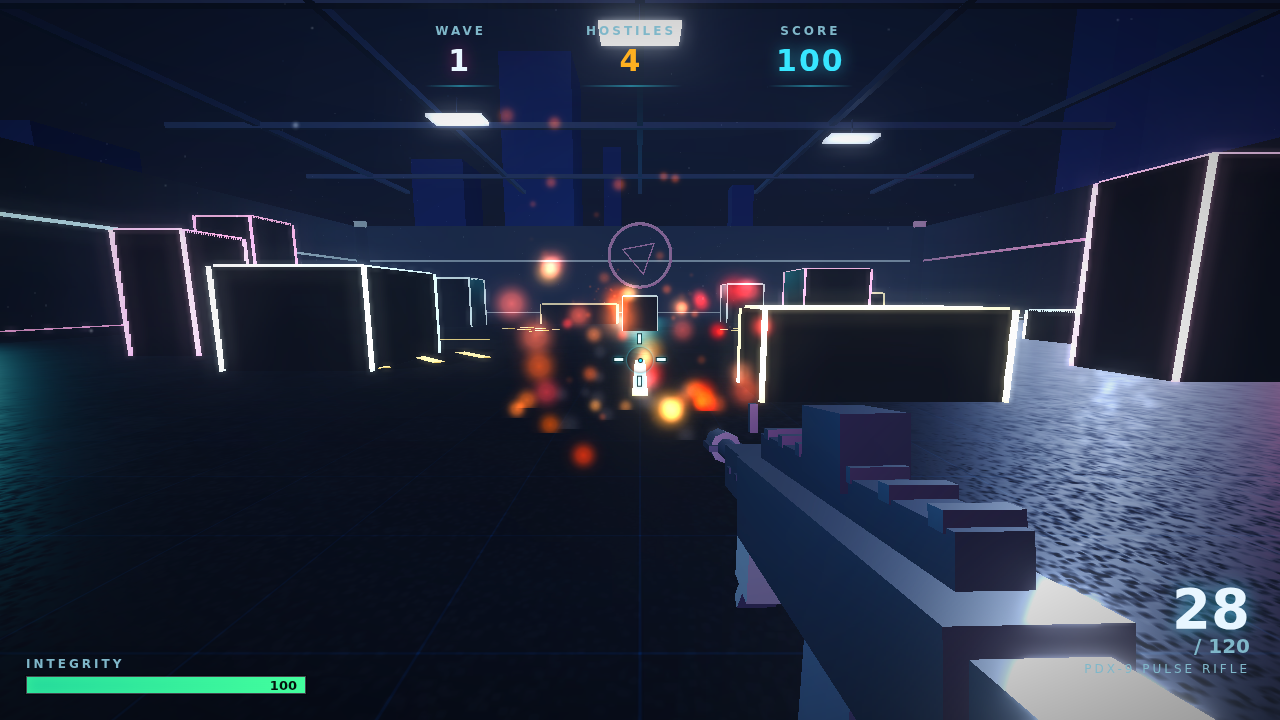
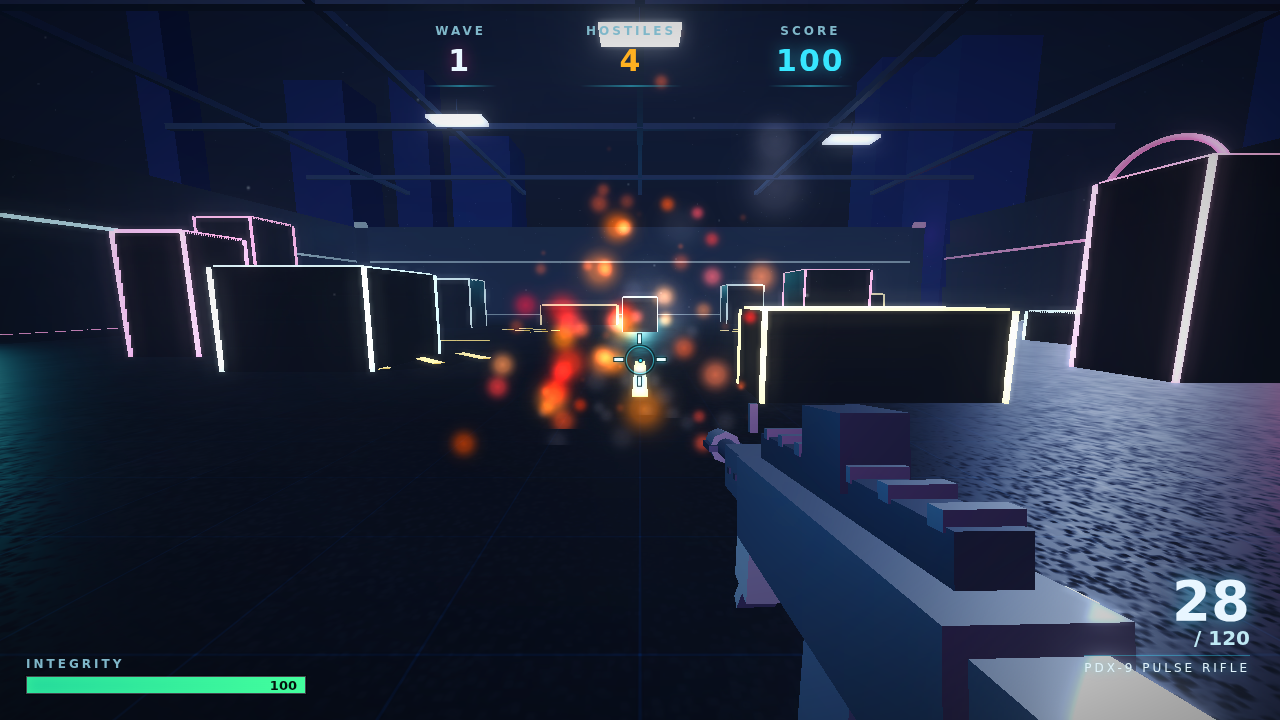
Gauntlet Loop Round 2: fresh blind critics on the improved build
Three new blind critics scored the Round 1 result higher across the board and
found subtler gaps, including that Round 1 over-corrected the enemies.

- Combat feel: enemies no longer blow out to white "gems" — dimmer core +
  tiny pupil, thin outline rim, rebalanced global bloom (0.82->0.66), and
  per-type SILHOUETTES (brute shoulder plates, spitter gland head, drone
  lean hunch) so the three archetypes differ by shape, not just hue.
- Fire feedback: controlled multi-frame muzzle flash + smoke puff, brighter
  longer tracer, a camera recoil punch, hot-white spark shards on impact.
- Art: shared bump/detail map + tiled texture on walls & cover (real surface
  relief), brighter blooming light panels, floor-hugging neon trim, moved the
  far-wall sigil off-center so it stops competing with the reticle.
- HUD/presentation: higher-contrast crosshair, legible weapon name, a proper
  bordered/glowing/breathing menu CTA, confirmed HUD hidden until in-game.

Round log + before/after in docs/LOOP_LOG.md.

Claude-Session: https://claude.ai/code/session_017e5kp2HPuTir5hF2mprB4u

diff --git a/game.js b/game.js
@@ -137,7 +137,7 @@
   // Post: bloom for that neon AAA glow
   const composer = new THREE.EffectComposer(renderer);
   composer.addPass(new THREE.RenderPass(scene, camera));
-  const bloom = new THREE.UnrealBloomPass(new THREE.Vector2(window.innerWidth, window.innerHeight), 0.82, 0.62, 0.62);
+  const bloom = new THREE.UnrealBloomPass(new THREE.Vector2(window.innerWidth, window.innerHeight), 0.66, 0.6, 0.66);
   composer.addPass(bloom);
 
   // Finishing grade: radial vignette + cool shadow tint + gentle saturation lift.
@@ -219,7 +219,19 @@
     x.fillStyle = g; x.fillRect(0, 0, s, s);
     return new THREE.CanvasTexture(c);
   }
-  const TEX = { floor: floorTexture(), floorRough: floorRough(), wall: wallTexture(), dot: softDot() };
+  function detailBump() {
+    const s = 256, c = makeCanvas(s), x = c.getContext('2d');
+    x.fillStyle = '#808080'; x.fillRect(0, 0, s, s);
+    x.strokeStyle = '#3a3a3a'; x.lineWidth = 3;
+    for (let i = 0; i <= s; i += 64) { x.beginPath(); x.moveTo(i, 0); x.lineTo(i, s); x.stroke(); x.beginPath(); x.moveTo(0, i); x.lineTo(s, i); x.stroke(); }
+    x.strokeStyle = '#b4b4b4'; x.lineWidth = 1;
+    for (let i = 32; i <= s; i += 64) { x.beginPath(); x.moveTo(i, 0); x.lineTo(i, s); x.stroke(); }
+    x.fillStyle = '#d4d4d4';
+    for (let i = 10; i < s; i += 64) for (let j = 10; j < s; j += 64) { x.beginPath(); x.arc(i, j, 2.5, 0, TAU); x.fill(); }
+    for (let i = 0; i < 3200; i++) { const v = 88 + Math.floor(Math.random() * 92); x.fillStyle = `rgb(${v},${v},${v})`; x.fillRect(Math.random() * s, Math.random() * s, 1, 1); }
+    const t = new THREE.CanvasTexture(c); t.wrapS = t.wrapT = THREE.RepeatWrapping; t.repeat.set(3, 3); return t;
+  }
+  const TEX = { floor: floorTexture(), floorRough: floorRough(), wall: wallTexture(), dot: softDot(), bump: detailBump() };
 
   /* =========================================================================
      WORLD
@@ -235,8 +247,9 @@
     const floor = new THREE.Mesh(new THREE.PlaneGeometry(ARENA * 2, ARENA * 2), floorMat);
     floor.rotation.x = -Math.PI / 2; floor.receiveShadow = true; scene.add(floor);
 
-    // Perimeter walls
-    const wallMat = new THREE.MeshStandardMaterial({ map: TEX.wall, roughness: 0.7, metalness: 0.5, color: 0xffffff });
+    // Perimeter walls — tiled texture + bump relief so they read as built surfaces.
+    const wallTex = TEX.wall.clone(); wallTex.wrapS = wallTex.wrapT = THREE.RepeatWrapping; wallTex.repeat.set(6, 2.5); wallTex.needsUpdate = true;
+    const wallMat = new THREE.MeshStandardMaterial({ map: wallTex, bumpMap: TEX.bump, bumpScale: 0.02, roughness: 0.66, metalness: 0.5, color: 0xaab4c4 });
     const wallH = 9, th = 1.2;
     const wallDefs = [
       [0, wallH / 2, -ARENA, ARENA * 2, wallH, th], [0, wallH / 2, ARENA, ARENA * 2, wallH, th],
@@ -273,7 +286,7 @@
 
     // Cover — brighter albedo + glowing VERTICAL edge posts so boxes read against the dark,
     // with varied heights/footprints to layer foreground/midground. [cx,cz,w,d,h,trim]
-    const crateMat = new THREE.MeshStandardMaterial({ map: TEX.wall, color: 0x707c90, roughness: 0.5, metalness: 0.5 });
+    const crateMat = new THREE.MeshStandardMaterial({ map: TEX.wall, bumpMap: TEX.bump, bumpScale: 0.02, color: 0x7c8698, roughness: 0.5, metalness: 0.5 });
     const covers = [
       [-8, 6, 3.5, 3.5, 2.4, 0x37e6ff], [9, -4, 3, 3, 3.0, 0xff2d95], [4, 10, 4, 1.7, 1.5, 0xffb020],
       [-11, -9, 2.5, 2.5, 2.8, 0x37e6ff], [12, 8, 2.2, 2.2, 4.4, 0xff2d95], [-4, -12, 5, 1.5, 1.3, 0xffb020],
@@ -293,7 +306,7 @@
 
     // Overhead truss + hanging light panels — caps the empty sky and adds top-down light.
     const beamMat = new THREE.MeshStandardMaterial({ color: 0x161c28, roughness: 0.75, metalness: 0.6 });
-    const panelMat = new THREE.MeshStandardMaterial({ color: 0xcfeaff, emissive: 0xcfeaff, emissiveIntensity: 1.1 });
+    const panelMat = new THREE.MeshStandardMaterial({ color: 0xbfe6ff, emissive: 0xbfe6ff, emissiveIntensity: 1.9 });
     const beamY = 12.5;
     for (let i = -2; i <= 2; i++) {
       const bx = new THREE.Mesh(new THREE.BoxGeometry(ARENA * 2, 0.35, 0.35), beamMat); bx.position.set(0, beamY, i * 12); scene.add(bx);
@@ -323,13 +336,14 @@
     const sigil = new THREE.Group();
     const ring = new THREE.Mesh(new THREE.TorusGeometry(3.2, 0.16, 8, 48), sigilMat); sigil.add(ring);
     const inner = new THREE.Mesh(new THREE.TorusGeometry(1.9, 0.13, 6, 3), sigilMat); inner.rotation.z = Math.PI / 6; sigil.add(inner);
-    sigil.position.set(0, 6, -ARENA + 1.0); scene.add(sigil);
+    // Placed high on a side wall (not dead-center) so it never competes with the reticle.
+    sigil.position.set(ARENA - 1.0, 7.2, -8); sigil.rotation.y = -Math.PI / 2; scene.add(sigil);
     updaters.push((dt, t) => { inner.rotation.z += dt * 0.3; sigilMat.emissiveIntensity = 1.3 + 0.4 * Math.sin(t * 1.5); });
 
-    // Floor-base neon runs (leading lines drawing the eye across the arena).
-    [[0, -ARENA + 0.6, 0, 0x37e6ff], [0, ARENA - 0.6, 0, 0xff2d95], [-ARENA + 0.6, 0, Math.PI / 2, 0xff2d95], [ARENA - 0.6, 0, Math.PI / 2, 0x37e6ff]].forEach(s => {
-      const m = new THREE.Mesh(new THREE.BoxGeometry(ARENA * 2 - 1, 0.07, 0.07), new THREE.MeshStandardMaterial({ color: s[3], emissive: s[3], emissiveIntensity: 2.3 }));
-      m.position.set(s[0], 0.16, s[1]); m.rotation.y = s[2]; scene.add(m);
+    // Floor-hugging neon trim at the wall base (reads as a floor edge, not a floating laser).
+    [[0, -ARENA + 0.5, 0, 0x37e6ff], [0, ARENA - 0.5, 0, 0xff2d95], [-ARENA + 0.5, 0, Math.PI / 2, 0xff2d95], [ARENA - 0.5, 0, Math.PI / 2, 0x37e6ff]].forEach(s => {
+      const m = new THREE.Mesh(new THREE.BoxGeometry(ARENA * 2 - 1, 0.03, 0.22), new THREE.MeshStandardMaterial({ color: s[3], emissive: s[3], emissiveIntensity: 2.0 }));
+      m.position.set(s[0], 0.05, s[1]); m.rotation.y = s[2]; scene.add(m);
     });
 
     // Hazard chevrons ringing the center — set dressing + leading lines.
@@ -445,18 +459,18 @@
      ========================================================================= */
   const Tracers = (function () {
     const POOL = 20; const items = [];
-    const geo = new THREE.CylinderGeometry(0.02, 0.02, 1, 5, 1, true);
+    const geo = new THREE.CylinderGeometry(0.035, 0.035, 1, 6, 1, true);
     geo.translate(0, 0.5, 0); geo.rotateX(Math.PI / 2); // now along +Z from origin
-    const mat = new THREE.MeshBasicMaterial({ color: 0x9ff6ff, transparent: true, opacity: 0.9, blending: THREE.AdditiveBlending, depthWrite: false });
+    const mat = new THREE.MeshBasicMaterial({ color: 0xbafcff, transparent: true, opacity: 0.95, blending: THREE.AdditiveBlending, depthWrite: false });
     for (let i = 0; i < POOL; i++) { const m = new THREE.Mesh(geo, mat.clone()); m.visible = false; scene.add(m); items.push({ m, life: 0 }); }
     let h = 0;
     const _d = new THREE.Vector3();
     function fire(from, to) {
       const it = items[h]; h = (h + 1) % POOL;
       _d.subVectors(to, from); const len = _d.length();
-      it.m.position.copy(from); it.m.lookAt(to); it.m.scale.set(1, 1, len); it.m.visible = true; it.m.material.opacity = 0.95; it.life = 0.06;
+      it.m.position.copy(from); it.m.lookAt(to); it.m.scale.set(1, 1, len); it.m.visible = true; it.m.material.opacity = 0.95; it.life = 0.11;
     }
-    function update(dt) { for (const it of items) { if (it.life > 0) { it.life -= dt; it.m.material.opacity = Math.max(0, it.life / 0.06) * 0.95; if (it.life <= 0) it.m.visible = false; } } }
+    function update(dt) { for (const it of items) { if (it.life > 0) { it.life -= dt; it.m.material.opacity = Math.max(0, it.life / 0.11) * 0.95; if (it.life <= 0) it.m.visible = false; } } }
     return { fire, update };
   })();
 
@@ -475,7 +489,7 @@
   const Weapon = (function () {
     const group = new THREE.Group();
     // Mid-value gunmetal that actually catches the viewmodel key/rim light.
-    const gunMat = new THREE.MeshStandardMaterial({ color: 0x2b323d, roughness: 0.44, metalness: 0.85 });
+    const gunMat = new THREE.MeshStandardMaterial({ color: 0x2b323d, roughness: 0.52, metalness: 0.8 });
     const polyMat = new THREE.MeshStandardMaterial({ color: 0x1c2129, roughness: 0.55, metalness: 0.3 });
     const accentMat = new THREE.MeshStandardMaterial({ color: 0x37e6ff, emissive: 0x37e6ff, emissiveIntensity: 0.6, roughness: 0.4 });
     const darkMat = new THREE.MeshStandardMaterial({ color: 0x14181f, roughness: 0.5, metalness: 0.7 });
@@ -534,10 +548,10 @@
     const flashMat = new THREE.MeshBasicMaterial({ map: TEX.dot, color: 0xffcf8a, transparent: true, blending: THREE.AdditiveBlending, depthWrite: false, opacity: 0 });
     const flashCoreMat = new THREE.MeshBasicMaterial({ map: TEX.dot, color: 0xffffff, transparent: true, blending: THREE.AdditiveBlending, depthWrite: false, opacity: 0 });
     const flash = new THREE.Group();
-    const fp1 = new THREE.Mesh(new THREE.PlaneGeometry(1.0, 1.0), flashMat); flash.add(fp1);
-    const fp2 = new THREE.Mesh(new THREE.PlaneGeometry(1.7, 0.3), flashMat); flash.add(fp2);
-    const fp3 = new THREE.Mesh(new THREE.PlaneGeometry(0.3, 1.7), flashMat); flash.add(fp3);
-    const fp0 = new THREE.Mesh(new THREE.PlaneGeometry(0.55, 0.55), flashCoreMat); fp0.position.z = 0.01; flash.add(fp0);
+    const fp1 = new THREE.Mesh(new THREE.PlaneGeometry(0.7, 0.7), flashMat); flash.add(fp1);
+    const fp2 = new THREE.Mesh(new THREE.PlaneGeometry(1.2, 0.22), flashMat); flash.add(fp2);
+    const fp3 = new THREE.Mesh(new THREE.PlaneGeometry(0.22, 1.2), flashMat); flash.add(fp3);
+    const fp0 = new THREE.Mesh(new THREE.PlaneGeometry(0.34, 0.34), flashCoreMat); fp0.position.z = 0.01; flash.add(fp0);
     flash.position.copy(muzzle.position); flash.position.z -= 0.05; group.add(flash);
 
     group.position.set(0.24, -0.24, -0.5);
@@ -547,7 +561,7 @@
 
     // Viewmodel-only light rig (layer 1) so the gun reads as metal without lighting the world.
     group.traverse((o) => { o.layers.set(1); });
-    const vmKey = new THREE.PointLight(0xeaf3ff, 1.6, 5, 2); vmKey.position.set(0.55, 0.4, -0.35); vmKey.layers.set(1); camera.add(vmKey);
+    const vmKey = new THREE.PointLight(0xeaf3ff, 1.2, 5, 2); vmKey.position.set(0.55, 0.4, -0.35); vmKey.layers.set(1); camera.add(vmKey);
     const vmRim = new THREE.PointLight(0x46b6ff, 1.3, 5, 2); vmRim.position.set(-0.6, 0.05, -0.85); vmRim.layers.set(1); camera.add(vmRim);
     const vmFill = new THREE.PointLight(0x30506a, 0.8, 4.5, 2); vmFill.position.set(0.1, -0.5, -0.3); vmFill.layers.set(1); camera.add(vmFill);
     camera.layers.enable(1);
@@ -566,9 +580,11 @@
     function tryFire() {
       if (st.reloading > 0 || st.cooldown > 0 || paused || !running) return false;
       if (st.mag <= 0) { Audio.dryFire(); st.cooldown = 0.18; return false; }
-      st.mag--; st.cooldown = st.fireRate; recoil = Math.min(recoil + 1, 3.4); flashT = 0.09;
-      Audio.shoot(); flash.rotation.z = rand(0, TAU);
-      Flashes.pop(muzzleWorld(), 0xffcf8a, 7, 0.07);
+      st.mag--; st.cooldown = st.fireRate; recoil = Math.min(recoil + 1, 3.4); flashT = 0.13;
+      Audio.shoot(); flash.rotation.z = rand(0, TAU); recoilKick += 0.014; // camera punch
+      const mw = muzzleWorld();
+      Flashes.pop(mw, 0xffd9a0, 8, 0.1);
+      Particles.burst(mw, 4, { color: 0x5a5a66, spdMin: 0.5, spdMax: 2.5, upBias: 1.2, grav: -2, sizeMin: 0.6, sizeMax: 1.3, lifeMin: 0.22, lifeMax: 0.5 }); // muzzle smoke
       updateAmmoHUD();
       Game.doHitscan(st.damage, st.ads ? st.spread * 0.35 : st.spread);
       Game.addShake(st.ads ? 0.05 : 0.11);
@@ -592,12 +608,12 @@
 
       recoil = lerp(recoil, 0, dt * 11);
       flashT = Math.max(0, flashT - dt);
-      const fk = flashT / 0.09;
-      flashMat.opacity = flashT > 0 ? (0.5 + rand(0, 0.5)) * fk : 0;
-      flashCoreMat.opacity = flashT > 0 ? (0.7 + rand(0, 0.3)) * fk : 0;
-      const fs = flashT > 0 ? rand(0.85, 1.35) * (0.5 + fk * 0.5) : 0.001; flash.scale.set(fs, fs, fs);
+      const fk = flashT / 0.13;
+      flashMat.opacity = flashT > 0 ? (0.45 + rand(0, 0.35)) * fk : 0;
+      flashCoreMat.opacity = flashT > 0 ? (0.55 + rand(0, 0.3)) * fk : 0;
+      const fs = flashT > 0 ? rand(0.9, 1.25) * (0.55 + fk * 0.45) : 0.001; flash.scale.set(fs, fs, fs);
       // barrel flash lights the gun for those frames only
-      vmKey.intensity = 1.6 + (flashT > 0 ? 3 * fk : 0);
+      vmKey.intensity = 1.2 + (flashT > 0 ? 2.5 * fk : 0);
 
       // sway from mouse + bob from movement
       sway.x = lerp(sway.x, clamp(-input.look.x * 0.02, -0.05, 0.05), dt * 8);
@@ -639,22 +655,23 @@
     const S = spec.size, baseEmissive = 0.24;
     // Body catches light AND carries a faint under-glow so it's never pure shadow.
     const bodyMat = new THREE.MeshStandardMaterial({ color: spec.body, roughness: 0.5, metalness: 0.55, emissive: new THREE.Color(spec.core), emissiveIntensity: baseEmissive });
-    const coreMat = new THREE.MeshStandardMaterial({ color: spec.core, emissive: spec.core, emissiveIntensity: 3.2, roughness: 0.3 });
+    // Dimmer, non-clipping core so the CARAPACE stays the readable form, not a white gem.
+    const coreMat = new THREE.MeshStandardMaterial({ color: spec.core, emissive: spec.core, emissiveIntensity: 1.25, roughness: 0.3 });
 
     // Hunched, forward-leaning carapace — the readable mass.
     const shell = new THREE.Mesh(new THREE.OctahedronGeometry(S * 0.6, 0), bodyMat);
-    shell.scale.set(0.85, 0.72, 1.18); shell.rotation.x = 0.25; shell.castShadow = true; g.add(shell);
+    shell.scale.set(0.85, 0.72, 1.18); shell.rotation.x = 0.28; shell.castShadow = true; g.add(shell);
     const torso = new THREE.Mesh(new THREE.IcosahedronGeometry(S * 0.42, 0), bodyMat);
     torso.position.set(0, -S * 0.04, -S * 0.06); g.add(torso);
 
-    // Inverted-hull rim: a glowing outline so the silhouette pops against dark walls.
+    // Thin inverted-hull outline (not a body-filling shell) so the silhouette reads.
     const rim = new THREE.Mesh(new THREE.OctahedronGeometry(S * 0.6, 0), new THREE.MeshBasicMaterial({ color: spec.core, side: THREE.BackSide }));
-    rim.scale.set(0.85 * 1.14, 0.72 * 1.14, 1.18 * 1.14); rim.rotation.x = 0.25; g.add(rim);
+    rim.scale.set(0.85 * 1.06, 0.72 * 1.06, 1.18 * 1.06); rim.rotation.x = 0.28; g.add(rim);
 
-    // Glowing core "eye" + ring at the front.
-    const core = new THREE.Mesh(new THREE.SphereGeometry(S * 0.2, 14, 14), coreMat);
-    core.position.set(0, S * 0.02, S * 0.5); g.add(core);
-    const eyeRim = new THREE.Mesh(new THREE.TorusGeometry(S * 0.27, S * 0.05, 8, 18), coreMat);
+    // Small bright pupil + iris ring (a face, not a lantern).
+    const core = new THREE.Mesh(new THREE.SphereGeometry(S * 0.12, 12, 12), coreMat);
+    core.position.set(0, S * 0.02, S * 0.52); g.add(core);
+    const eyeRim = new THREE.Mesh(new THREE.TorusGeometry(S * 0.22, S * 0.045, 8, 18), coreMat);
     eyeRim.position.copy(core.position); eyeRim.rotation.y = Math.PI / 2; g.add(eyeRim);
 
     // Swept-back blades (menace) + forward mandibles framing the eye.
@@ -663,9 +680,24 @@
       const a = (i - 1) * 0.5; bl.position.set(Math.sin(a) * S * 0.36, S * 0.36, -S * 0.34);
       bl.rotation.set(-1.15, a, 0); bl.castShadow = true; g.add(bl);
     }
+    const mandMat = new THREE.MeshStandardMaterial({ color: spec.core, emissive: spec.core, emissiveIntensity: 0.9, roughness: 0.4 });
     for (const sx of [-1, 1]) {
-      const mand = new THREE.Mesh(new THREE.ConeGeometry(S * 0.07, S * 0.56, 4), coreMat);
+      const mand = new THREE.Mesh(new THREE.ConeGeometry(S * 0.07, S * 0.56, 4), mandMat);
       mand.position.set(sx * S * 0.28, -S * 0.12, S * 0.46); mand.rotation.set(1.35, 0, sx * 0.45); g.add(mand);
+    }
+
+    // Per-type silhouette so the three archetypes differ by SHAPE, not just hue.
+    if (spec.key === 'brute') {
+      for (const sx of [-1, 1]) {
+        const plate = new THREE.Mesh(new THREE.BoxGeometry(S * 0.3, S * 0.52, S * 0.6), bodyMat);
+        plate.position.set(sx * S * 0.62, S * 0.16, -S * 0.04); plate.rotation.z = sx * 0.3; plate.castShadow = true; g.add(plate);
+      }
+      shell.scale.set(1.05, 0.66, 1.15);
+    } else if (spec.key === 'spitter') {
+      const gland = new THREE.Mesh(new THREE.SphereGeometry(S * 0.32, 12, 10), bodyMat);
+      gland.position.set(0, S * 0.42, S * 0.05); gland.scale.y = 1.25; gland.castShadow = true; g.add(gland);
+      const sac = new THREE.Mesh(new THREE.SphereGeometry(S * 0.15, 10, 8), mandMat);
+      sac.position.set(0, S * 0.54, S * 0.16); g.add(sac);
     }
 
     // Tripod legs (animated stride).
@@ -679,7 +711,7 @@
       g.add(leg); legs.push(leg);
     }
 
-    const light = new THREE.PointLight(spec.core, 1.1, 10, 2); light.position.copy(core.position); g.add(light);
+    const light = new THREE.PointLight(spec.core, 0.55, 8, 2); light.position.copy(core.position); g.add(light);
     g.userData = { torso, shell, core, eyeRim, coreMat, bodyMat, rim, light, legs, baseEmissive, coreHex: spec.core };
     return g;
   }
@@ -756,7 +788,7 @@
         if (e.spawnT > 0) { e.spawnT -= dt; const s = clamp(1 - e.spawnT / 0.6, 0, 1); e.mesh.scale.setScalar(s); }
         e.phase += dt;
         // hit flash — white pop above the constant under-glow
-        if (e.hitT > 0) { e.hitT -= dt; const f = e.hitT / 0.12; ud.coreMat.emissiveIntensity = 3.2 + 14 * f; ud.bodyMat.emissive.setHex(0xffffff); ud.bodyMat.emissiveIntensity = 0.3 + 1.4 * f; }
+        if (e.hitT > 0) { e.hitT -= dt; const f = e.hitT / 0.12; ud.coreMat.emissiveIntensity = 1.25 + 9 * f; ud.bodyMat.emissive.setHex(0xffffff); ud.bodyMat.emissiveIntensity = 0.3 + 1.3 * f; }
         else { ud.bodyMat.emissive.setHex(ud.coreHex); }
         // movement toward player
         _toP.set(playerPos.x - e.mesh.position.x, 0, playerPos.z - e.mesh.position.z);
@@ -782,7 +814,7 @@
         const movingNow = !stop && e.spawnT <= 0;
         for (let li = 0; li < ud.legs.length; li++) ud.legs[li].rotation.x = movingNow ? Math.sin(e.phase * 9 + li * 2.1) * 0.5 : Math.sin(e.phase * 2 + li) * 0.05;
         // menace telegraph — the eye glares brighter as it closes on the player
-        if (e.hitT <= 0) { const close = clamp(1 - (dist - sp.melee) / 5, 0, 1); ud.coreMat.emissiveIntensity = 3.2 + close * 4 + Math.sin(e.phase * 10) * close * 1.5; ud.bodyMat.emissiveIntensity = ud.baseEmissive + close * 0.5; }
+        if (e.hitT <= 0) { const close = clamp(1 - (dist - sp.melee) / 5, 0, 1); ud.coreMat.emissiveIntensity = 1.25 + close * 2.2 + Math.sin(e.phase * 10) * close * 0.8; ud.bodyMat.emissiveIntensity = ud.baseEmissive + close * 0.3; }
         updateBar(e);
         // attacks
         if (sp.ranged) {
@@ -899,7 +931,7 @@
      GAME STATE / WAVES / HUD
      ========================================================================= */
   let running = false, paused = false;
-  let shake = 0, shakeV = new THREE.Vector3(), hitstop = 0;
+  let shake = 0, shakeV = new THREE.Vector3(), hitstop = 0, recoilKick = 0;
   const Game = (function () {
     let wave = 0, score = 0, kills = 0, spawnQueue = [], spawnTimer = 0, intermission = 0, aliveTarget = 0, crosshairSpread = 8;
 
@@ -989,8 +1021,10 @@
         const killed = e.hp - finalDmg <= 0;
         Enemies.damage(e, finalDmg, crit);
         Tracers.fire(muzzle, hit.point);
-        Particles.burst(hit.point, crit ? 16 : 10, { color: e.spec.core, spdMin: 3, spdMax: 9, sizeMin: 0.4, sizeMax: 1.1, lifeMin: 0.2, lifeMax: 0.5, grav: 8, upBias: 1 });
-        Flashes.pop(hit.point, e.spec.core, 3, 0.08);
+        // sharp hot-white spark shards + a slower colored ember spray
+        Particles.burst(hit.point, crit ? 14 : 9, { color: 0xffffff, spdMin: 7, spdMax: 17, sizeMin: 0.25, sizeMax: 0.7, lifeMin: 0.06, lifeMax: 0.2, grav: 3 });
+        Particles.burst(hit.point, crit ? 12 : 7, { color: e.spec.core, spdMin: 3, spdMax: 9, sizeMin: 0.4, sizeMax: 1.0, lifeMin: 0.18, lifeMax: 0.45, grav: 8, upBias: 1 });
+        Flashes.pop(hit.point, 0xffffff, 4, 0.08);
         Audio.hit(crit); hitmarker(killed);
         if (crit && !killed) popup(hit.point, 'CRIT', 0xffb020, true);
       } else {
@@ -1100,9 +1134,10 @@
   function updatePlayer(dt) {
     if (!player.alive) return;
     // orientation from yaw/pitch
+    recoilKick = lerp(recoilKick, 0, dt * 9);
     camera.rotation.set(0, 0, 0);
     camera.rotation.order = 'YXZ';
-    camera.rotation.y = player.yaw; camera.rotation.x = player.pitch;
+    camera.rotation.y = player.yaw; camera.rotation.x = player.pitch + recoilKick;
 
     _forward.set(Math.sin(player.yaw), 0, Math.cos(player.yaw)); // note: -z forward handled below
     // In THREE, forward is -z. Build movement basis:

diff --git a/index.html b/index.html
@@ -19,7 +19,7 @@
   #crosshair .v { width:3px; height:9px; left:50%; margin-left:-1.5px; }
   #crosshair .h { height:3px; width:9px; top:50%; margin-top:-1.5px; }
   #crosshair .t { top:2px } #crosshair .b { bottom:2px } #crosshair .l { left:2px } #crosshair .r { right:2px }
-  #crosshair .ring { position:absolute; left:50%; top:50%; width:28px; height:28px; margin:-14px 0 0 -14px; border:1.5px solid rgba(55,230,255,.30); border-radius:50%; box-shadow:0 0 6px rgba(55,230,255,.2), inset 0 0 3px rgba(0,0,0,.5); }
+  #crosshair .ring { position:absolute; left:50%; top:50%; width:28px; height:28px; margin:-14px 0 0 -14px; border:1.5px solid rgba(55,230,255,.6); border-radius:50%; box-shadow:0 0 6px rgba(55,230,255,.4), 0 0 0 1.5px rgba(0,0,0,.75), inset 0 0 3px rgba(0,0,0,.6); }
   #crosshair .dot { position:absolute; left:50%; top:50%; width:3px; height:3px; margin:-1.5px 0 0 -1.5px; background:var(--cyan); border-radius:50%; box-shadow:0 0 4px var(--cyan), 0 0 0 1px rgba(0,0,0,.85); }
   #hitmarker { position:absolute; left:50%; top:50%; transform:translate(-50%,-50%) rotate(45deg); width:28px; height:28px; opacity:0; }
   #hitmarker div { position:absolute; background:#fff; box-shadow:0 0 7px #fff, 0 0 0 1px rgba(0,0,0,.85); }
@@ -45,8 +45,8 @@
   #ammoMag { font-size:56px; font-weight:700; line-height:.9; text-shadow:0 0 18px rgba(55,230,255,.5); }
   #ammoMag.empty { color:var(--red); text-shadow:0 0 18px rgba(255,59,59,.6); animation:ammopulse .5s ease-in-out infinite; }
   @keyframes ammopulse {0%,100%{opacity:1}50%{opacity:.45}}
-  #ammoReserve { font-size:20px; color:#7fb7c9; font-weight:600; }
-  #weaponName { font-size:12px; letter-spacing:3px; color:#7fb7c9; margin-top:4px; text-transform:uppercase; }
+  #ammoReserve { font-size:20px; color:#bfe9f4; font-weight:600; }
+  #weaponName { font-size:12px; letter-spacing:3px; color:#dff2fa; margin-top:5px; padding-top:5px; border-top:1px solid rgba(55,230,255,.35); display:inline-block; text-transform:uppercase; text-shadow:0 0 8px rgba(55,230,255,.5); }
   #reloadHint { color:var(--amber); font-size:13px; letter-spacing:2px; margin-top:4px; height:16px; opacity:0; text-transform:uppercase; }
 
   /* Top wave + score */
@@ -93,8 +93,11 @@
   .hidden { display:none !important; }
   #title { font-size:88px; font-weight:700; letter-spacing:16px; background:linear-gradient(90deg,var(--cyan),var(--mag)); -webkit-background-clip:text; background-clip:text; color:transparent; text-shadow:0 0 40px rgba(55,230,255,.25); }
   #subtitle { font-size:16px; letter-spacing:8px; color:#9fd6e6; margin-top:6px; text-transform:uppercase; }
-  .btn { pointer-events:auto; margin-top:38px; padding:16px 54px; font-size:20px; letter-spacing:6px; font-weight:700; text-transform:uppercase; color:#04121a; background:linear-gradient(90deg,var(--cyan),#7ef3ff); border:none; cursor:pointer; box-shadow:0 0 30px rgba(55,230,255,.5); transition:transform .1s ease, box-shadow .2s ease; }
-  .btn:hover { transform:translateY(-2px) scale(1.03); box-shadow:0 0 46px rgba(55,230,255,.8); }
+  .btn { pointer-events:auto; position:relative; overflow:hidden; margin-top:38px; padding:16px 58px; font-size:20px; letter-spacing:6px; font-weight:700; text-transform:uppercase; color:var(--cyan); background:rgba(10,26,38,.35); border:2px solid rgba(55,230,255,.7); cursor:pointer; box-shadow:0 0 24px rgba(55,230,255,.35), inset 0 0 18px rgba(55,230,255,.12); text-shadow:0 0 10px rgba(55,230,255,.6); transition:transform .1s ease, box-shadow .2s ease, background .2s ease; animation:btnbreath 2.4s ease-in-out infinite; }
+  .btn::after { content:''; position:absolute; top:0; left:-60%; width:40%; height:100%; background:linear-gradient(100deg,transparent,rgba(255,255,255,.35),transparent); transform:skewX(-20deg); animation:sheen 3.4s ease-in-out infinite; }
+  @keyframes sheen { 0%{left:-60%} 55%,100%{left:135%} }
+  @keyframes btnbreath { 0%,100%{box-shadow:0 0 22px rgba(55,230,255,.3), inset 0 0 16px rgba(55,230,255,.1)} 50%{box-shadow:0 0 40px rgba(55,230,255,.6), inset 0 0 22px rgba(55,230,255,.18)} }
+  .btn:hover { transform:translateY(-2px) scale(1.03); background:rgba(20,50,66,.5); box-shadow:0 0 50px rgba(55,230,255,.85), inset 0 0 26px rgba(55,230,255,.25); }
   .controls { margin-top:34px; font-size:13px; letter-spacing:2px; color:#6f9fb0; line-height:2; text-align:center; }
   .controls b { color:#bfe9f5; }
   #gameover #title { background:linear-gradient(90deg,var(--red),var(--amber)); -webkit-background-clip:text; background-clip:text; }

diff --git a/docs/LOOP_LOG.md b/docs/LOOP_LOG.md
@@ -33,4 +33,31 @@ All five critics also independently hit a harness bug — `page.screenshot` timi
 |---|---|
 | ![baseline enemy](baseline_enemy.png) | ![round 1 enemy](round1_enemy.png) |
 
-_The loop continues in Round 2 with fresh critics on the integrated result._
+## Round 2 — Fresh critics on the improved build
+
+Three new blind critics rendered the Round 1 result. Scores rose across the board
+(HUD 3–6 → 6–7; art 2–4 → 4–6), and they found sharper, subtler gaps — including
+that Round 1 had **over-corrected** the enemies.
+
+| Dimension | Biggest remaining gap | What the builder changed |
+|---|---|---|
+| **Combat feel** | The additive core + full-body rim blew every enemy into a featureless white "gem"; the three types differed only by hue | Dimmer core (`3.2→1.25`) + tiny pupil; **thin** outline rim (`1.14→1.06`); dimmer per-enemy light; rebalanced global bloom (`0.82→0.66`); **per-type silhouettes** — brute gets armored shoulder plates, spitter a bulbous gland head, drone a lean hunch |
+| **Fire feedback** | Flash unreliable (blown or missed), no persistent tracer/recoil | Controlled multi-frame muzzle flash (smaller footprint, longer life) + smoke puff; brighter, longer tracer beam; a camera recoil punch; hot-white spark shards on impact |
+| **Art direction** | Surfaces read as untextured black boxes; ceiling panels didn't bloom; floor neon looked like "lasers through geometry" | Shared bump/detail map on walls + cover (real surface relief); tiled+repeated wall texture; brighter blooming light panels; floor-hugging neon trim; moved the far-wall sigil off-center so it stops competing with the reticle |
+| **HUD / presentation** | Crosshair still faint; weapon-name illegible; menu button read as a web form; HUD leaked behind the menu | Higher-contrast crosshair ring + dark stroke; legible weapon name (top rule + glow); a proper AAA menu CTA (bordered, glowing, breathing, sheen); confirmed HUD is hidden until in-game |
+
+**Before → after (enemy differentiation — the brute gains armored shoulders):**
+
+| Round 1 | Round 2 |
+|---|---|
+| ![round 1 brute](round1_brute.png) | ![round 2 brute](round2_brute.png) |
+
+The three archetypes now read at a glance:
+
+| Drone | Spitter | Brute |
+|---|---|---|
+| ![drone](round2_drone.png) | ![spitter](round2_spitter.png) | ![brute](round2_brute.png) |
+
+The bar is deliberately unreachable — this is where the run was **stopped**, not where
+it "finished." With a higher bar there is always another gap to close.
+
